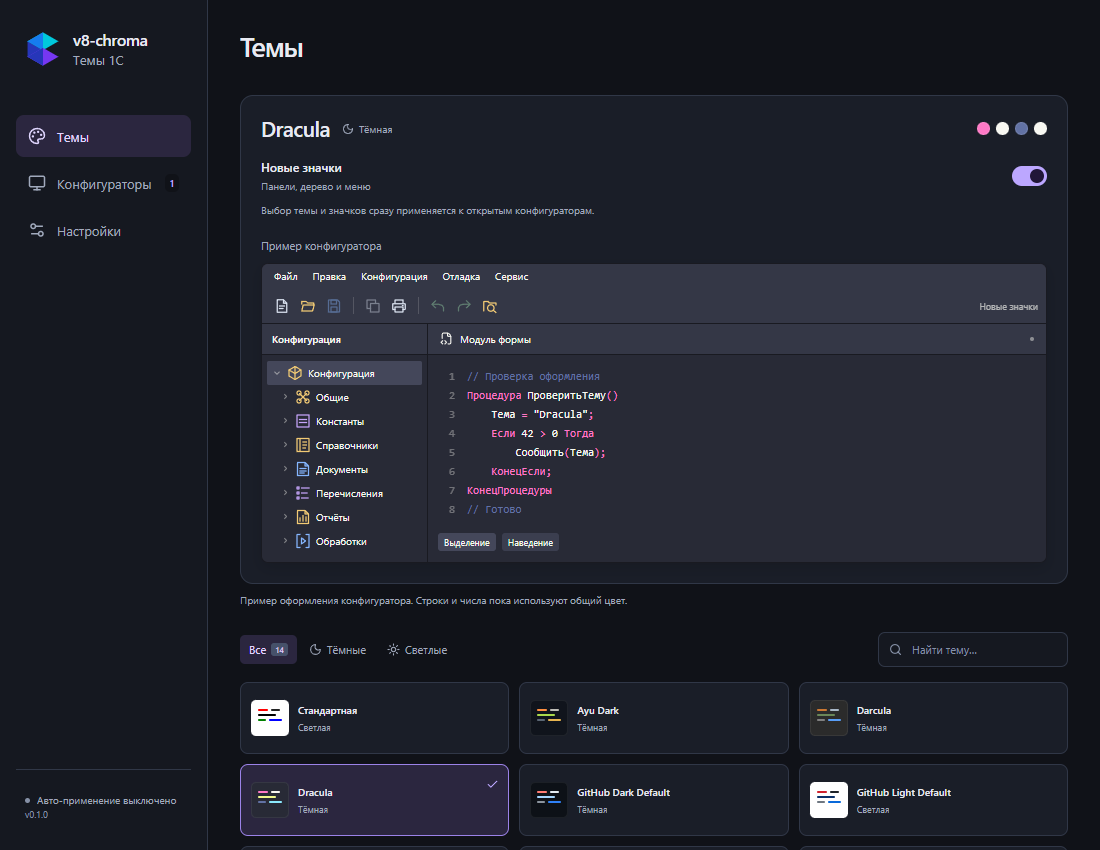
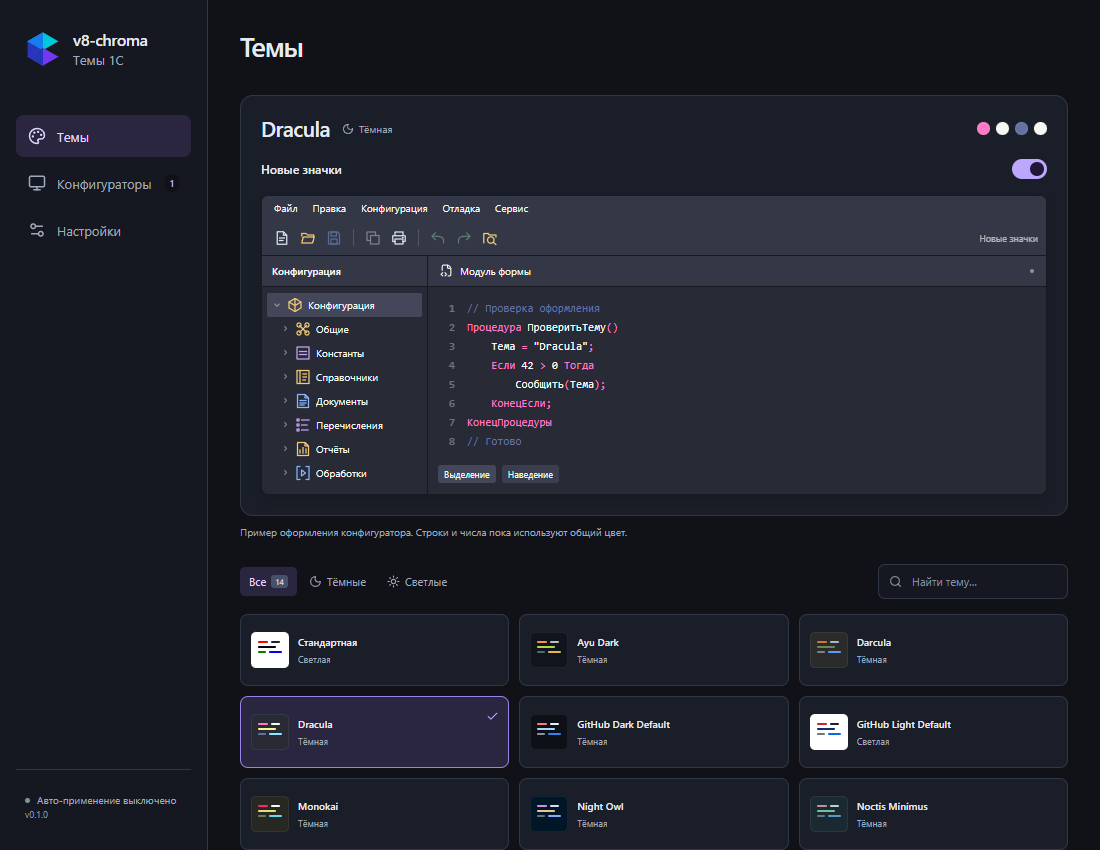
Remove redundant appearance preview labels

Changed region(s): [[0.2164, 0.1835, 0.9582, 1.0]]

diff --git a/ui/src/App.svelte b/ui/src/App.svelte
@@ -73,9 +73,8 @@
           <div class="swatches" aria-hidden="true">{#each ['keyword','identifier','comment','string'] as role}<i style:background={editor[role]}></i>{/each}</div>
         </div>
         <div class="appearance-controls">
-          <div class="appearance-icon-option"><label for="custom-icons"><strong>Новые значки</strong><small>Панели, дерево и меню</small></label><button id="custom-icons" class="switch" class:checked={customIcons} role="switch" aria-checked={customIcons} aria-label="Новые значки конфигуратора" disabled={disabled} onclick={toggleIcons}><i></i></button></div>
+          <div class="appearance-icon-option"><label for="custom-icons"><strong>Новые значки</strong></label><button id="custom-icons" class="switch" class:checked={customIcons} role="switch" aria-checked={customIcons} aria-label="Новые значки конфигуратора" disabled={disabled} onclick={toggleIcons}><i></i></button></div>
         </div>
-        <p class="appearance-policy" role="status">{#if appState?.busy}<RefreshCw size={12} class="spin"/>Применяем оформление…{:else if eligible>0}Выбор темы и значков сразу применяется к открытым конфигураторам.{:else if auto}Оформление применится, когда вы откроете конфигуратор.{:else}Выбор сохранён. После открытия конфигуратора примените его на вкладке «Конфигураторы».{/if}</p>
         <ConfiguratorPreview theme={selected} {customIcons}/>
       </section>
       <p class="preview-note">Пример оформления конфигуратора. Строки и числа пока используют общий цвет.</p>

diff --git a/ui/src/style.css b/ui/src/style.css
@@ -804,14 +804,10 @@ summary {
 .appearance-header .kind-tag {margin:0;}
 .appearance-header .swatches {margin:0;flex:none;}
 .appearance-header .swatches i {width:13px;height:13px;}
-.appearance-controls {display:flex;align-items:center;gap:20px;justify-content:space-between;}
+.appearance-controls {display:flex;align-items:center;gap:20px;justify-content:space-between;margin-bottom:16px;}
 .appearance-icon-option {display:flex;align-items:center;justify-content:space-between;gap:20px;width:100%;}
-.appearance-icon-option label {display:flex;flex-direction:column;gap:4px;cursor:pointer;}
+.appearance-icon-option label {cursor:pointer;}
 .appearance-icon-option strong {font-size:12px;font-weight:500;}
-.appearance-icon-option small {font-size:10px;color:var(--muted);}
-.appearance-policy {display:flex;align-items:center;gap:6px;margin:10px 0 20px;color:var(--muted);font-size:10px;line-height:1.5;}
-.preview-heading {display:flex;align-items:center;justify-content:space-between;gap:12px;margin-bottom:10px;}
-.preview-label {font-size:11px;color:var(--muted);}
 .configurator-preview {min-width:0;border:1px solid var(--preview-border);border-radius:7px;overflow:hidden;box-shadow:0 5px 15px #0002;}
 .preview-menubar {height:25px;display:flex;align-items:center;gap:15px;padding:0 12px;background:var(--preview-panel);font-size:10px;white-space:nowrap;overflow:hidden;}
 .preview-toolbar {display:flex;align-items:center;gap:2px;height:35px;padding:0 8px;background:var(--preview-panel);border-bottom:1px solid var(--preview-border);}

diff --git a/ui/src/lib/ConfiguratorPreview.svelte b/ui/src/lib/ConfiguratorPreview.svelte
@@ -20,9 +20,6 @@
   ];
 </script>
 
-<div class="preview-heading">
-  <span class="preview-label">Пример конфигуратора</span>
-</div>
 <div class="configurator-preview" style:background={colors['editor.background']} style:color={colors.text} style:--preview-panel={colors.panel} style:--preview-border={colors.border} aria-label={`Пример конфигуратора: ${theme.name}, ${customIcons?'новые':'штатные'} значки`}>
   <div class="preview-menubar" aria-hidden="true"><span>Файл</span><span>Правка</span><span>Конфигурация</span><span>Отладка</span><span>Сервис</span></div>
   <div class="preview-toolbar" aria-label="Пример панели команд">
